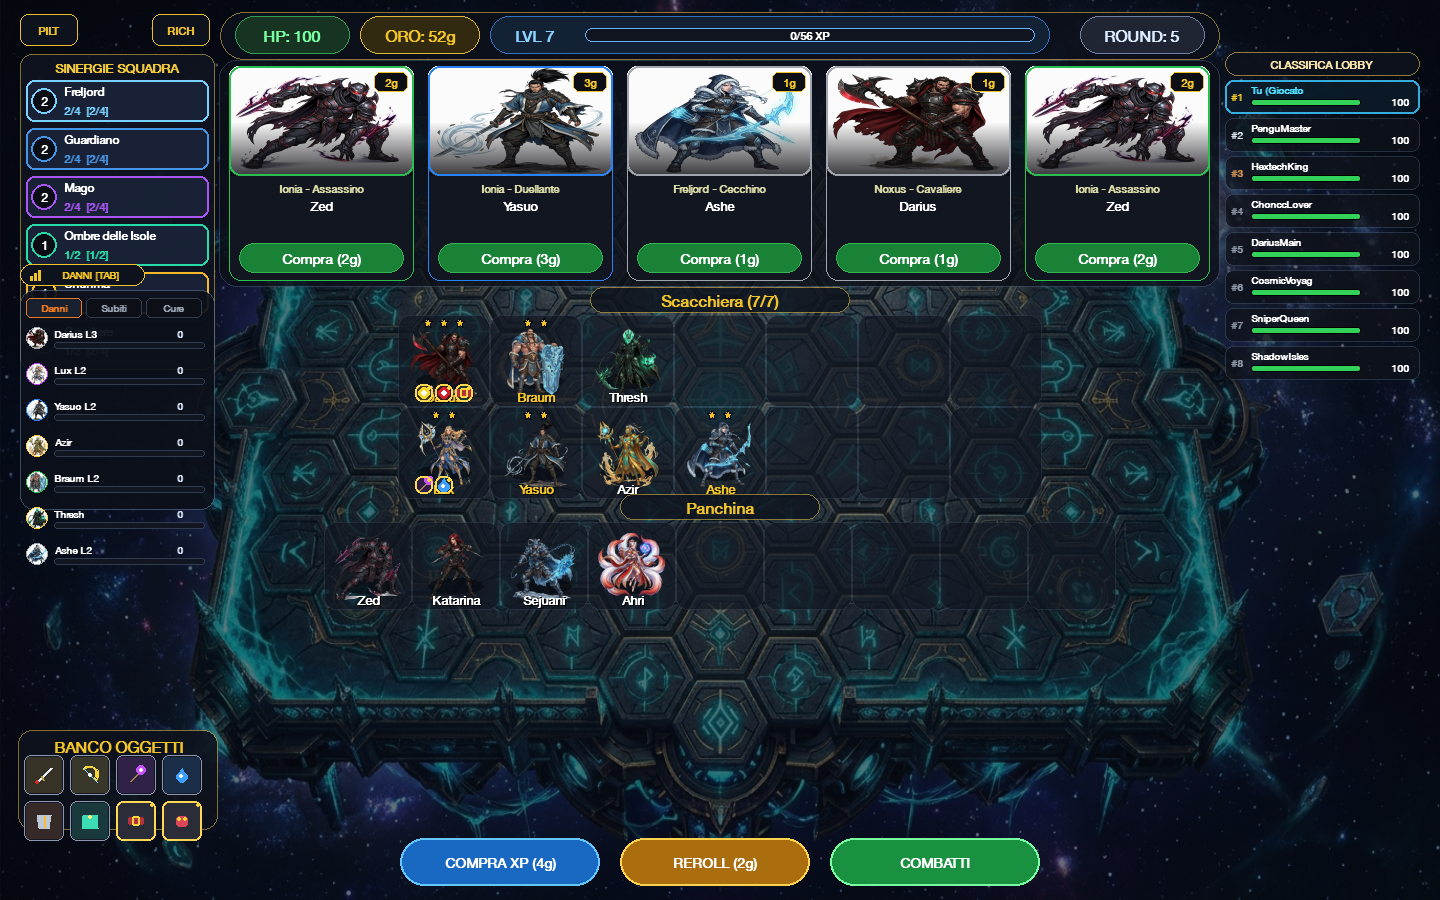
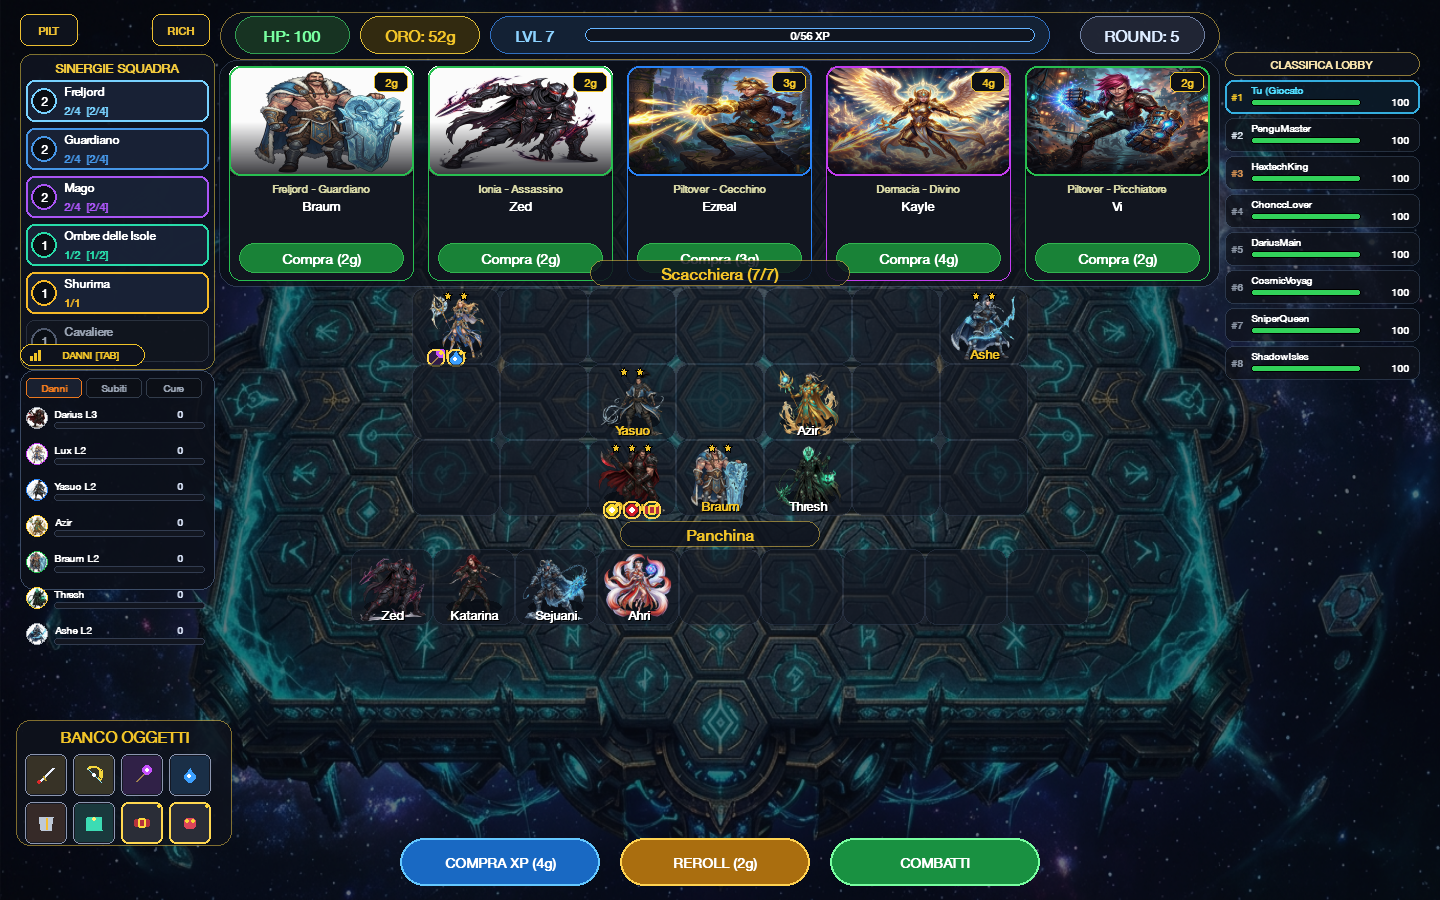
Fix item return on champion sell, dynamic damage meter positioning below synergies, expanded item bench panel, and 3-row 21-slot TFT board

diff --git a/monsters.py b/monsters.py
@@ -249,12 +249,14 @@ def get_pve_encounter(round_number):
     Restituisce i mostri e le sfere di bottino pianificate per il round PvE.
     """
     if round_number == 2:
-        # Ondata Minion (3 Minion)
-        monsters = [
-            Monster("Minion Mischia", hp=360, attack=28, defense=15, attack_range=1, monster_type="minion_melee"),
-            Monster("Minion Caster", hp=280, attack=35, defense=10, attack_range=3, monster_type="minion_caster"),
-            Monster("Minion Mischia", hp=360, attack=28, defense=15, attack_range=1, monster_type="minion_melee"),
-        ]
+        # Ondata Minion (2 Mischia in Frontline, 1 Caster in Midline)
+        m1 = Monster("Minion Mischia", hp=360, attack=28, defense=15, attack_range=1, monster_type="minion_melee")
+        m2 = Monster("Minion Caster", hp=280, attack=35, defense=10, attack_range=3, monster_type="minion_caster")
+        m3 = Monster("Minion Mischia", hp=360, attack=28, defense=15, attack_range=1, monster_type="minion_melee")
+        m1.board_index = 16 # Row 2 (Frontline)
+        m2.board_index = 10 # Row 1 (Midline)
+        m3.board_index = 18 # Row 2 (Frontline)
+        monsters = [m1, m2, m3]
         orbs = [
             LootOrb(0, 0, tier="grey", rewards={"gold": 3, "item": None}),
             LootOrb(0, 0, tier="blue", rewards={"gold": 1, "item": get_random_component_key()})
@@ -267,11 +269,12 @@ def get_pve_encounter(round_number):
         }
         
     elif round_number == 6:
-        # Golem di Pietra (Krugs)
-        monsters = [
-            Monster("Krug Antico", hp=1100, attack=68, defense=35, attack_range=1, monster_type="krug_big"),
-            Monster("Krug Minore", hp=750, attack=50, defense=25, attack_range=1, monster_type="krug_small"),
-        ]
+        # Golem di Pietra (Krugs in Frontline)
+        k1 = Monster("Krug Antico", hp=1100, attack=68, defense=35, attack_range=1, monster_type="krug_big")
+        k2 = Monster("Krug Minore", hp=750, attack=50, defense=25, attack_range=1, monster_type="krug_small")
+        k1.board_index = 16 # Row 2
+        k2.board_index = 18 # Row 2
+        monsters = [k1, k2]
         orbs = [
             LootOrb(0, 0, tier="blue", rewards={"gold": 2, "item": get_random_component_key()}),
             LootOrb(0, 0, tier="blue", rewards={"gold": 2, "item": get_random_component_key()})
@@ -284,12 +287,14 @@ def get_pve_encounter(round_number):
         }
         
     elif round_number == 9:
-        # Lupi delle Tenebre (Murkwolves)
-        monsters = [
-            Monster("Lupo Alpha", hp=950, attack=75, defense=25, crit_chance=0.40, attack_speed=1.15, monster_type="wolf_alpha"),
-            Monster("Lupo Silvano", hp=680, attack=58, defense=20, crit_chance=0.30, attack_speed=1.10, monster_type="wolf"),
-            Monster("Lupo Silvano", hp=680, attack=58, defense=20, crit_chance=0.30, attack_speed=1.10, monster_type="wolf"),
-        ]
+        # Lupi delle Tenebre (Murkwolves in Frontline & Fianchi)
+        w1 = Monster("Lupo Alpha", hp=950, attack=75, defense=25, crit_chance=0.40, attack_speed=1.15, monster_type="wolf_alpha")
+        w2 = Monster("Lupo Silvano", hp=680, attack=58, defense=20, crit_chance=0.30, attack_speed=1.10, monster_type="wolf")
+        w3 = Monster("Lupo Silvano", hp=680, attack=58, defense=20, crit_chance=0.30, attack_speed=1.10, monster_type="wolf")
+        w1.board_index = 17 # Row 2 Centro
+        w2.board_index = 15 # Row 2 Fianco
+        w3.board_index = 19 # Row 2 Fianco
+        monsters = [w1, w2, w3]
         orbs = [
             LootOrb(0, 0, tier="blue", rewards={"gold": 3, "item": get_random_component_key()}),
             LootOrb(0, 0, tier="gold", rewards={"gold": 5, "item": get_random_component_key(), "champion": random.choice(["Lux", "Yasuo", "Darius"])})
@@ -302,10 +307,10 @@ def get_pve_encounter(round_number):
         }
         
     elif round_number >= 12:
-        # Boss Drago Antico
-        monsters = [
-            Monster("Drago Antico", hp=3500, attack=130, defense=55, attack_range=2, mana_max=100, mana_start=40, monster_type="dragon")
-        ]
+        # Boss Drago Antico (Centro Frontline)
+        d = Monster("Drago Antico", hp=3500, attack=130, defense=55, attack_range=2, mana_max=100, mana_start=40, monster_type="dragon")
+        d.board_index = 17 # Row 2 Centro
+        monsters = [d]
         completed_pool = ["Giant Slayer", "Infinity Edge", "Warmog's Armor", "Rabadon's Deathcap", "Bloodthirster"]
         orbs = [
             LootOrb(0, 0, tier="gold", rewards={"gold": 10, "item": random.choice(completed_pool), "champion": random.choice(["Azir", "Thresh", "Aurelion"])})

diff --git a/shop.py b/shop.py
@@ -421,6 +421,15 @@ class ShopManager:
         sell_price = total_invested if level == 1 else max(1, total_invested - 1)
         
         self.game.player_gold += sell_price
+        
+        # Recupera tutti gli oggetti equipaggiati sul campione e rimettili nel banco oggetti
+        champ_items = getattr(champion, 'items', [])
+        for itm in list(champ_items):
+            if len(self.game.player_items) < 8:
+                self.game.player_items.append(itm)
+                print(f"🎒 Oggetto restituito al banco: {itm}")
+        champion.items = []
+        
         if hasattr(self.game, 'audio'):
             self.game.audio.play_sfx("sell")
         print(f"💰 VENDUTO {champion.name} (★{level}) per +{sell_price} Oro!")
@@ -466,13 +475,14 @@ class ShopManager:
         self.dragged_from_index = -1
 
     def get_board_rects(self):
+        """Calcola le 21 celle della scacchiera (7 colonne x 3 righe, formato canonico TFT)"""
         sw = self.game.screen.get_width()
         sh = self.game.screen.get_height()
         rects = []
-        cell_w, cell_h = 92, 92
-        cols, rows = 7, 2
+        cell_w, cell_h = 88, 76
+        cols, rows = 7, 3
         x_start = (sw - (cols * cell_w)) // 2
-        y_start = int(sh * 0.35)
+        y_start = int(sh * 0.32)
         
         for r in range(rows):
             for c in range(cols):
@@ -485,23 +495,24 @@ class ShopManager:
         sw = self.game.screen.get_width()
         sh = self.game.screen.get_height()
         rects = []
-        cell_w, cell_h = 88, 88
+        cell_w, cell_h = 82, 76
         cols = self.game.bench_slots
         x_start = (sw - (cols * cell_w)) // 2
-        y = int(sh * 0.58)
+        y = int(sh * 0.61)
         for i in range(cols):
             x = x_start + i * cell_w
             rects.append(pygame.Rect(x, y, cell_w, cell_h))
         return rects
 
     def get_item_bench_rects(self):
+        """Restituisce le coordinate per gli 8 slot del banco oggetti con dimensioni e margini perfetti"""
         sw = self.game.screen.get_width()
         sh = self.game.screen.get_height()
         rects = []
-        slot_size = 40
+        slot_size = 42
         spacing = 6
-        x_start = 24
-        y_start = sh - 145
+        x_start = 25
+        y_start = sh - 146
         for i in range(8):
             col = i % 4
             row = i // 4
@@ -666,12 +677,17 @@ class ShopManager:
         draw_hud_augments(surface, mouse_pos, player_augments, start_x=20, start_y=14)
         draw_traits_sidebar(surface, active_traits, start_x=20, start_y=54)
         
-        # Damage Meter sotto alle Sinergie a sinistra con spazio extra
+        # Calcola altezza dinamica delle Sinergie per posizionare il Damage Meter senza alcuna sovrapposizione
+        shown_count = min(6, len(active_traits))
+        traits_height = (28 + shown_count * 43) if shown_count > 0 else 0
+        dm_y = max(370, 54 + traits_height + 22)
+        
+        # Damage Meter sotto alle Sinergie a sinistra con margine generoso
         if hasattr(self.game, 'damage_meter') and getattr(self.game, 'last_battle_player_team', None):
             self.game.damage_meter.draw(
                 surface, mouse_pos, self.game.last_battle_player_team, 
                 elapsed_seconds=getattr(self.game, 'last_battle_duration', 5.0), 
-                start_x=20, start_y=290
+                start_x=20, start_y=dm_y
             )
         
         # --- CLASSIFICA LOBBY (LATO DESTRO, ABBASSATA A Y=52 PER LASCIARE SPAZIO IN ALTO) ---
@@ -802,7 +818,7 @@ class ShopManager:
             draw_text("COMBATTI", BUTTON_FONT, WHITE if can_confirm else (150, 150, 150), surface, self.confirm_button_rect.centerx, self.confirm_button_rect.centery)
 
         # --- 8. BANCO INVENTARIO OGGETTI (IN BASSO A SINISTRA) ---
-        item_box_rect = pygame.Rect(18, sh - 170, 200, 100)
+        item_box_rect = pygame.Rect(16, sh - 180, 216, 126)
         draw_glass_panel(surface, item_box_rect, border_radius=14, bg_color=(14, 18, 28, 230), border_color=(190, 160, 60, 170), border_width=1)
         draw_text("BANCO OGGETTI", HEADER_FONT, GOLD, surface, item_box_rect.centerx, item_box_rect.top + 16)
         

diff --git a/battle.py b/battle.py
@@ -189,27 +189,28 @@ class BattleManager:
         return battle_team
 
     def setup_board_positions(self):
-        """ Assegna le posizioni X, Y iniziali ai campioni su una griglia 7x4 responsive con posizionamento tattico """
+        """ Assegna le posizioni X, Y iniziali ai campioni su una griglia 7x6 (3 righe nemico, 3 righe giocatore, stile canonico TFT) """
         sw = self.game.screen.get_width()
         sh = self.game.screen.get_height()
-        cell_w, cell_h = 92, 92
+        cell_w, cell_h = 88, 72
         offset_x = (sw - (7 * cell_w)) // 2
-        offset_y = int(sh * 0.26)
+        offset_y = int(sh * 0.18)
         
+        # Posizionamento Giocatore (Righe 3, 4, 5)
         for champ in self.player_team:
             idx = getattr(champ, 'board_index', 0)
-            row = 2 + (idx // 7)
+            row = 3 + (idx // 7)
             col = idx % 7
             champ.x = offset_x + col * cell_w + cell_w // 2
             champ.y = offset_y + row * cell_h + cell_h // 2
                 
-        # Nemici posizionati in base al loro board_index tattico (o fallback privo di sovrapposizioni)
+        # Posizionamento Nemici (Righe 0, 1, 2) in base al loro board_index tattico
         if self.enemy_team:
             used_enemy_slots = set()
             for champ in self.enemy_team:
                 idx = getattr(champ, 'board_index', None)
                 if idx is None or idx in used_enemy_slots:
-                    available = [s for s in range(14) if s not in used_enemy_slots]
+                    available = [s for s in range(21) if s not in used_enemy_slots]
                     idx = random.choice(available) if available else 0
                 used_enemy_slots.add(idx)
                 champ.board_index = idx
@@ -517,25 +518,30 @@ class BattleManager:
         draw_hud_augments(surface, mouse_pos, getattr(self.game, 'player_augments', []), start_x=20, start_y=14)
         draw_traits_sidebar(surface, getattr(self, "player_traits", []), start_x=20, start_y=54)
         
-        # Damage Meter posizionato sotto le sinergie a sinistra
+        # Calcola altezza dinamica delle Sinergie per posizionare il Damage Meter senza alcuna sovrapposizione
+        shown_count = min(6, len(getattr(self, "player_traits", [])))
+        traits_height = (28 + shown_count * 43) if shown_count > 0 else 0
+        dm_y = max(370, 54 + traits_height + 22)
+        
+        # Damage Meter posizionato sotto le sinergie a sinistra con margine generoso
         elapsed_sec = max(0.5, (pygame.time.get_ticks() - self.battle_start_ticks) / 1000.0)
-        self.damage_meter.draw(surface, mouse_pos, self.player_team, elapsed_seconds=elapsed_sec, start_x=20, start_y=290)
+        self.damage_meter.draw(surface, mouse_pos, self.player_team, elapsed_seconds=elapsed_sec, start_x=20, start_y=dm_y)
         
         # Classifica a destra abbassata a start_y=52 per lasciare spazio in alto
         if hasattr(self.game, 'lobby_manager'):
             self.game.lobby_manager.draw_leaderboard_sidebar(surface, mouse_pos, start_x=sw - 215, start_y=52)
         
-        # 4. Campo di battaglia a griglia (7x4)
-        cell_w, cell_h = 92, 92
-        offset_x, offset_y = (sw - (7 * cell_w)) // 2, int(sh * 0.26)
-        cols, rows = 7, 4
+        # 4. Campo di battaglia a griglia (7x6, 3 righe nemico, 3 righe giocatore)
+        cell_w, cell_h = 88, 72
+        offset_x, offset_y = (sw - (7 * cell_w)) // 2, int(sh * 0.18)
+        cols, rows = 7, 6
         
         for r in range(rows):
             for c in range(cols):
                 rect = pygame.Rect(offset_x + c * cell_w, offset_y + r * cell_h, cell_w, cell_h)
                 cell_surf = pygame.Surface((cell_w, cell_h), pygame.SRCALPHA)
                 
-                if r >= 2:
+                if r >= 3:
                     pygame.draw.rect(cell_surf, (18, 38, 26, 210), (2, 2, cell_w - 4, cell_h - 4), border_radius=14) # Lato Player
                     pygame.draw.rect(cell_surf, (45, 160, 80, 140), (2, 2, cell_w - 4, cell_h - 4), width=1, border_radius=14)
                 else:

diff --git a/lobby.py b/lobby.py
@@ -212,14 +212,16 @@ class BotPlayer:
 
     def assign_tactical_positions(self):
         """
-        Assegna le posizioni dei campioni sulla griglia nemica 7x2:
-        - Row 1 (Indici 7..13 - Prima Linea): Tank, Cavalieri, Guardiani, Picchiatori
-        - Row 0 (Indici 0..6 - Retroguardia): Cecchini, Maghi, Carry fragili
-        - Ali/Fianchi (0, 6, 7, 13): Assassini
+        Assegna le posizioni dei campioni sulla griglia nemica 7x3 (21 celle):
+        - Row 2 (Indici 14..20 - Prima Linea Frontline): Tank, Cavalieri, Guardiani, Picchiatori
+        - Row 1 (Indici 7..13 - Linea Intermedia): Combattenti secondari e supporto
+        - Row 0 (Indici 0..6 - Retroguardia Backline): Cecchini, Maghi, Carry a distanza
+        - Ali/Fianchi (0, 6, 7, 13, 14, 20): Assassini
         """
-        frontline_slots = [10, 9, 11, 8, 12, 7, 13] # Centro prima linea preferito
-        backline_slots = [3, 2, 4, 1, 5, 0, 6]     # Centro/angoli retroguardia
-        flank_slots = [0, 6, 7, 13]
+        frontline_slots = [17, 16, 18, 15, 19, 14, 20] # Centro prima linea preferito
+        midline_slots = [10, 9, 11, 8, 12, 7, 13]      # Seconda linea
+        backline_slots = [3, 2, 4, 1, 5, 0, 6]         # Centro/angoli retroguardia
+        flank_slots = [0, 6, 7, 13, 14, 20]
         
         used_slots = set()
         
@@ -250,7 +252,12 @@ class BotPlayer:
                         
             # Fallback se gli slot ideali sono pieni
             if assigned_slot is None:
-                for slot in range(14):
+                for slot in midline_slots + frontline_slots + backline_slots:
+                    if slot not in used_slots:
+                        assigned_slot = slot
+                        break
+            if assigned_slot is None:
+                for slot in range(21):
                     if slot not in used_slots:
                         assigned_slot = slot
                         break

diff --git a/game.py b/game.py
@@ -83,7 +83,7 @@ class Game:
         self.carousel_rounds = [1, 4, 7]
         self.carousel_selection_triggered_rounds = set()
         
-        self.board_slots = 14 # 7 colonne x 2 righe
+        self.board_slots = 21 # 7 colonne x 3 righe (formato canonico TFT)
         self.bench_slots = 9 
         self.board = [None] * self.board_slots 
         self.bench = [None] * self.bench_slots
